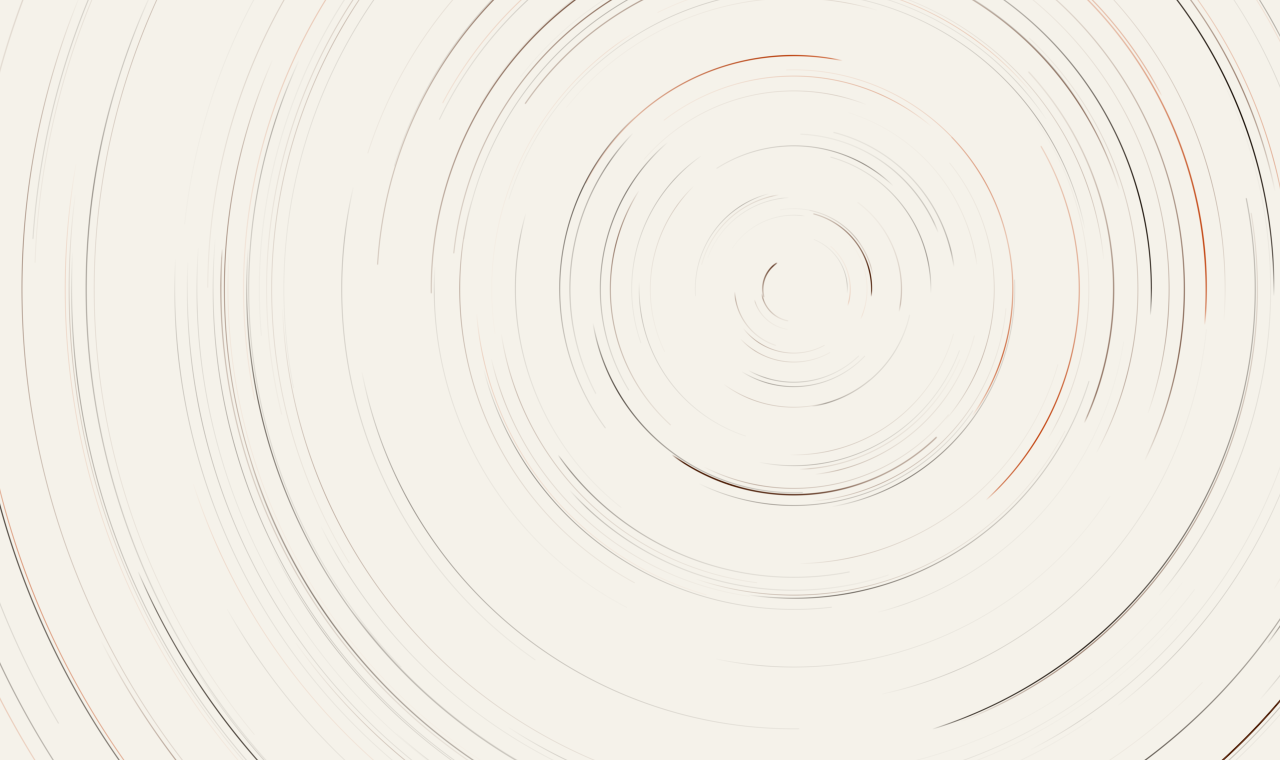
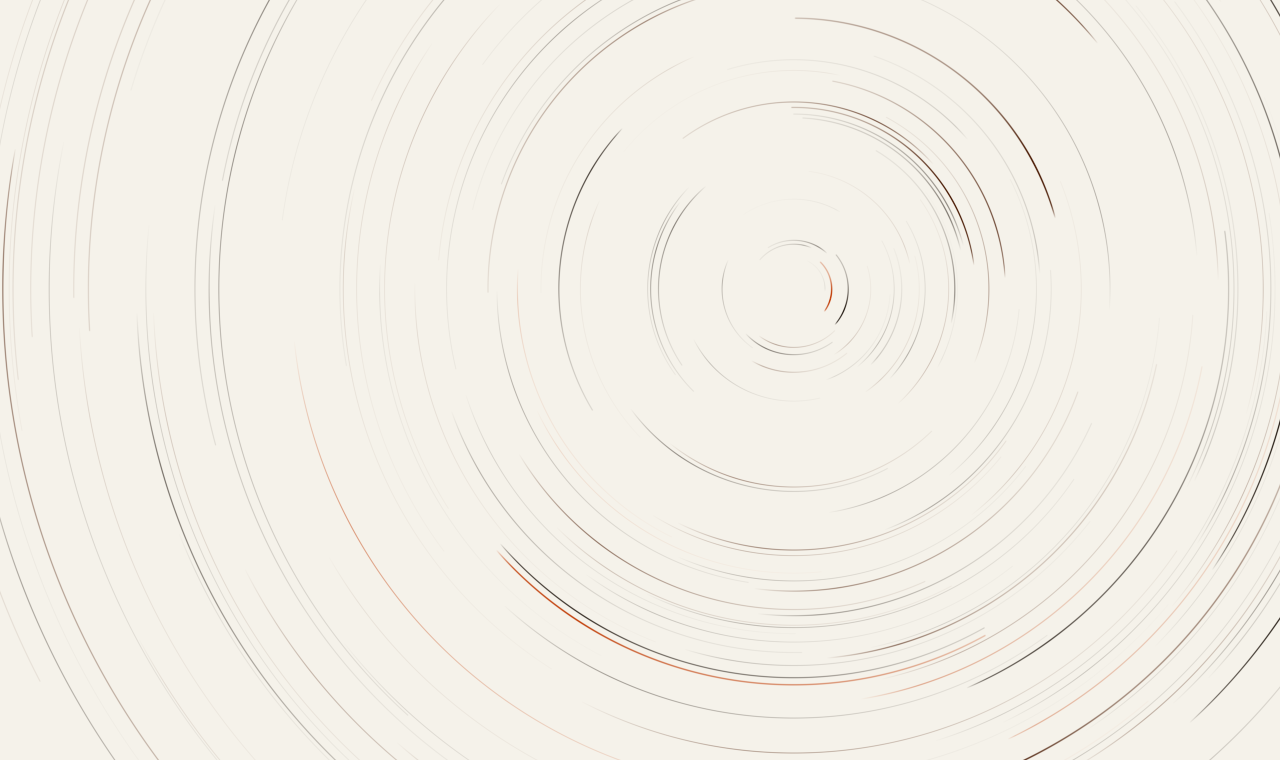
fix(star-trails): 沉积按帧时长归一、底片 DPR 下限 1.8、半径改分层取样
三条"改了参数没见轻"各有其因，都不是口味常量：

1. 帧率耦合：accPass 的衰减乘 step、星角走 dtS，唯独每笔沉积的 alpha 不随帧时长缩放，
   于是刷新率越高越亮越密（120Hz 最深档 α=1 实心 0.76%→1.89%、环间黑隙 27px→20px）。
   乘上 step 后浓淡只由时间决定，60Hz 逐位不变。密度随之 N 220/110→180/100、
   FADE_1 0.0038→0.0052（最深档齿/100px 1.41→0.89、黑隙→44px）。
2. 细线串珠：lw=0.6+z·1.2 有 55% 的星细于 1 CSS px，1× 屏上 dpr=1 时不足一个设备像素，
   抗锯齿把弧切成珠子（覆盖度谷/峰 0.25；抬到"正好 1px"只到 0.27，等于没修）。底片内部分辨率
   加下限 MIN_DPR=1.8、预算 4.6MP→9MP；不加粗线宽（加粗要墨量 ×1.73，等于把密度还回去）。
3. 横向不均：半径独立随机必然结块（最挤/最松 5.66 倍、最小间距 0px、2.6 个空桶），改等距槽
   + 槽内抖动 0.76 + 中段弯折 → 结块比 1.65、空桶 1（天极附近本该空），间距仍 ±76% 摆动。

量法：离线复刻 accPass 的闭式解，与逐帧按点暴力积分对拍（偏差 1.39%，含 60/120/144Hz）+
五条反向覆盖；SETTLE/FEAT 加强经实测对密度几乎无效，已记进 §10 ⑬ 免得再走。文档同步
§3.1 / §9.5 / §10 ⑫⑬ 与手册 §3.4 一条约定；build_readme_art.mjs 从源码读常数，跟着改并重跑配图。

未验：观感未目视；MIN_DPR=1.8 让 1920×1080 底片 2.07MP→6.2MP（约 3× 像素量），
首页满帧那台相机有没有掉帧待实测，退路是 1.4。

diff --git a/src/lib/sky.js b/src/lib/sky.js
@@ -8,7 +8,15 @@
 // 但两个相机若极点不同，导航后同心弧的圆心会跳 → "同一片天"当场穿帮。
 export const POLE_FX = 0.62
 export const POLE_FY = 0.38
-export const MAXPX = 4.6e6 // 底片像素预算（超出则自动降 DPR）
+export const MAXPX = 9e6 // 底片像素预算（超出则自动降 DPR）
+// 底片内部分辨率的下限。一条暗星轨只有 0.94 CSS px 宽（lw = 0.6 + z·1.2，中位数 0.96），
+// dpr=1 的屏上它连一个设备像素都不到 → 抗锯齿把它切成一串珠子：按面积重叠积分量过覆盖度
+// 沿弧的谷/峰比，0.94 设备 px 是 0.25（摆 3~4 倍），1.0 是 0.27（**抬到"正好一个像素"没用**），
+// 1.4 是 0.53，1.87 是 0.79 且无低覆盖采样。所以下限取 1.8。
+// 这不是把线画粗：屏幕上物理线宽仍是 0.94 CSS px（画布会降采样回 CSS 尺寸），多出来的只是
+// 内部栅格的表达力。代价是每帧全屏 destination-out + drawImage 的像素数——1920×1080 从 2.07MP
+// 变 6.2MP。1× 大屏（问题就出在这类屏）才会吃到这份代价，2× 屏与手机本来就在上限附近。
+export const MIN_DPR = 1.8
 
 export const sky = {
   acc: null, // 长曝光底片（离屏累积缓冲）
@@ -49,7 +57,9 @@ export function ensurePlate() {
   const w = innerWidth
   const h = innerHeight
   if (!w || !h) return false
-  const dpr = Math.min(2, window.devicePixelRatio || 1, Math.sqrt(MAXPX / (w * h)))
+  // 想要的分辨率：设备 DPR 与"不串珠"的 1.8 里取大的；再被上限 2 与像素预算夹住
+  const want = Math.max(MIN_DPR, window.devicePixelRatio || 1)
+  const dpr = Math.min(2, want, Math.sqrt(MAXPX / (w * h)))
   if (sky.acc && sky.w === w && sky.h === h && sky.dpr === dpr) return false
   const prev = sky.acc // 旧底片：已感的光要带走，不能因为视口高了十几px 就整张倒掉
   const prevW = sky.w

diff --git a/docs/design.md b/docs/design.md
@@ -42,7 +42,7 @@
 ### 3.1 长曝光星轨（`components/neo/StarTrails.vue`）
 
 - **概念**：首屏 = 架在三脚架上的相机长曝光。恒星周日视运动是刚体旋转（全场一致 ω≈0.042 rad/s），星轨绕偏心天极（全站同一处：视口 62%x / 38%y）累积成同心弧。**但刚体旋转只保证几何正确，不保证好看**：可读的星空靠的是星等分层（多数暗、极少数亮）与弧长错落，见下「星等与随机性」。
-- **渲染管线（Canvas 2D · 累积缓冲）**：ACC 离屏底片按**视口**尺寸分配、全站共享（见下「天与相机」），每帧不清空——① 衰减 pass：`destination-out` 填 `alpha=fade`（尾迹长度 ∝ 1/fade）；② 增量 pass：每星画本帧短弧沉积，**弧长由 `shear`（0.06~0.40rad 随机）主导，而不是 ω·dt（每帧仅 0.0007rad）**——这一条最容易记错：调 ω 改的是天空转动的快慢，改弧长要动 `shear`。`z>0.62` 的亮星（实测占 14.2%）另在拖痕前沿叠一笔 22% 长、0.72 倍线宽、`HEAD_GAIN=2.6` 倍 alpha 的短弧，使亮度自尾向头递增（实测累积比 1.3~1.6 倍）——等亮的长弧在视觉上只是"一根光棒"。主画布每帧 = 底 → `drawImage(ACC, 0, 0, W, H)`（顺带把天区坐标缩放进本机盒子）→ 当帧层（变星/流星，不累积，保持锐利）。像素预算 4.6MP 封顶自动降 DPR，相机跟随底片 DPR。
+- **渲染管线（Canvas 2D · 累积缓冲）**：ACC 离屏底片按**视口**尺寸分配、全站共享（见下「天与相机」），每帧不清空——① 衰减 pass：`destination-out` 填 `alpha=fade`（尾迹长度 ∝ 1/fade）；② 增量 pass：每星画本帧短弧沉积，**弧长由 `shear`（0.06~0.40rad 随机）主导，而不是 ω·dt（每帧仅 0.0007rad）**——这一条最容易记错：调 ω 改的是天空转动的快慢，改弧长要动 `shear`。`z>0.62` 的亮星（实测占 14.2%）另在拖痕前沿叠一笔 22% 长、0.72 倍线宽、`HEAD_GAIN=2.6` 倍 alpha 的短弧，使亮度自尾向头递增（实测累积比 1.3~1.6 倍）——等亮的长弧在视觉上只是"一根光棒"。主画布每帧 = 底 → `drawImage(ACC, 0, 0, W, H)`（顺带把天区坐标缩放进本机盒子）→ 当帧层（变星/流星，不累积，保持锐利）。底片内部分辨率 `dpr = min(2, max(1.8, devicePixelRatio), √(9e6/(w·h)))`——**1.8 是下限**（2026-10-07 加，见「细线串珠」），9MP 是预算封顶，相机跟随底片 DPR。
 - **天与相机（`src/lib/sky.js`）**：底片像素、星群、天极、时钟、取景权放在模块级单例 `sky` 里——**星空是一份，相机是两台**。要点：
   - `ensurePlate()` 只在**视口尺寸或 DPR 变化时**才新建底片；桌面换页时两者都不变，于是同一张底片继续感光。这是"一夜连续曝光"从口号变成实现的唯一一处改动。**但移动端会变**：地址栏收放改 `innerHeight` → `resize` → 走到重开分支，早期版本等于用户第一次滚动就把整夜曝光倒掉（且只在手机上发生，桌面测不出）。现在重开前把旧底片等比 `drawImage` 进新底片——极点按新尺寸重算，弧会漂一两度，**漂移可接受，黑屏不可接受**。
   - `sky.t0` 全站起一次，星角 `s.th` 因此跨路由连续；组件卸载只 `releasePlate(self)` 交还取景权，**不再把 `acc` 置 null**（那正是过去每次导航重铺底片的根因）。
@@ -58,7 +58,7 @@
   | `@hover` | Event | — | 悬停变星下标（`interactive` 下）。**当前无消费方**——首屏的悬停读数条已按反馈移除（§10），`HorizonHero` 不再挂空监听；保留作装置对外接口（内部 `syncHover()` 仍驱动芒的绽放缓动） |
   | `@select` | Event | — | 点击变星，回传对应 post 对象 |
 
-- **交互语义**：滚动 = 时间流速（`flow = 1 + k·2.2`，`fade` 由 0.0086→0.0038，越深尾迹越长天越快）；文章 = 变星（随天刚体旋转、脉动亮度，hover 缓绽锥形衍射十字芒·沿芒长渐隐、点击坠入）；指针 = 引力时间膨胀（180px 半径内转速×2.8、提亮，轨迹局部卷曲，移开恢复）。
+- **交互语义**：滚动 = 时间流速（`flow = 1 + k·2.2`，`fade` 由 0.0086→0.0052，越深尾迹越长天越快）；文章 = 变星（随天刚体旋转、脉动亮度，hover 缓绽锥形衍射十字芒·沿芒长渐隐、点击坠入）；指针 = 引力时间膨胀（180px 半径内转速×2.8、提亮，轨迹局部卷曲，移开恢复）。
 - **主题**：深空 = 冷白/暖白/琥珀三档色温（`lighter` 发光）；纸面 = 天文干版底片（墨/sepia 轨迹 + 朱砂点睛，`source-over`，fade×1.4 尾迹更干净）。**换主题才"换一张底片"**（防串色）：`readColors()` 拿 `data-theme` 与 `sky.theme` 比对，相同就直接返回——两台相机各挂一个 MutationObserver，一次切换会进来两趟，靠这个比较幂等。**挂载不重铺**。
 - **部署**：首页由 `HorizonHero` 以 `interactive` 挂载；次级页由 `App.vue` 以非交互模式挂载为活背景；两者看同一张底片（§3.1「天与相机」）。`reduced-motion` = 一次性快进 380 步生成静态底片，不启动 rAF；由 `ensureStaticPlate()` 按 `sky.plateBuilt` 保证**每张底片只冲一次**，换页与第二台相机都不重冲。
 - **次级页限帧（1.2.0）**：非交互模式目标帧率 30fps（`SUB_FPS`），不足一帧间隔时 rAF 回调直接返回、不绘制。`update()` 用的是真实 `dt`（≈33ms），故星轨转速与满帧完全一致，只是全屏 `destination-out` + `drawImage` 的绘制量减半。首页交互层不受影响（满帧）。
@@ -71,9 +71,15 @@
 - **防饱和尾部渐隐（1.1.0）**：星轨即将转满前 20% 平滑暗化（`SETTLE_START=0.8`、`SETTLE_DEPTH=0.55`），另随机 1-2 根做柔和独立渐隐；每颗星带随机尾迹起点偏移（`shear`），使弧段截端错落、圆环连续无对齐断口；`FADE_0=0.008 / FADE_1=0.0032` 拉长尾迹，让相邻弧段衔接成连续同心圆环。
   - **2026-09-17「久了过饱和、要更透气」回收**：`SETTLE_DEPTH → 0.72`、`FADE_0 → 0.0104`、`FADE_1 → 0.0044`、`DEP → 0.0072`（稳态亮度 ≈ DEP ÷ fade，两头一起动才不会既变淡又变短）。
   - **2026-09-18 第二轮（`SETTLE_DEPTH → 0.6`、`FADE_0 → 0.0086`、`FADE_1 → 0.0038`、`DEP → 0.0084`）**：上一档收得太狠，用户改口"不明显、不好看"。现在 `DEP ÷ FADE_0 = 0.98`，**仍低于**当初被投诉过饱和的 1.06——因为这一轮补的是**对比**而不是整体提亮（见下条）。独立尾部渐隐同时加密到 **1-3 根 / 间隔 5.2~11s**（原 1-2 根 / 9~19s）：固定抽一两根久了会听出节拍。上面两组都是历史值，别照抄，以 `StarTrails.vue` 顶部常量块为准。
+- **2026-10-07 第三轮：先修帧率耦合，再动数量与最深尾迹**。这次量的不是亮度而是**密度**：把 `accPass` 的合成数学离线复刻成按点积分（仿真器与逐帧暴力对拍，最大偏差 1.39%，含 60/120/144Hz 三档；尾迹闭式解与仓库里 `scripts/build_readme_art.mjs` 用的是同一条），再在 1920×1080 / 1440×900 / 390×844 三块屏 × 页顶/最深 × 60/120Hz 上读"沿半径每 100px 有几条亮线、亮线之间还剩多少黑"。
+  - **根因不在口味常量**：`accPass` 里衰减乘了 `step`、星角走 `dtS`，**唯独每笔沉积的 alpha 不随帧时长缩放**——刷新率越高，同一点每秒被叠的次数越多，底片越亮越密。120Hz 上最深档：齿/100px 1.41→1.90、环间黑隙 27px→20px、顶到 α=1 的实心像素 0.76%→1.89%。**这就是前三轮"收了参数没见轻"的原因**：60Hz 上量出来的稳态值在高刷屏上不成立。修法是 `accPass(…, dep, step)` 把 `step` 也乘进沉积（星轨与变星两处）；60Hz 下 `step=1`，观感逐位不变，此后每个口味常量在任何刷新率上都落得准。
+  - **归一之后才谈数量**：`N_BIG 220→180`、`N_SMALL 110→100`、`FADE_1 0.0038→0.0052`。1920×1080 最深档 齿/100px 1.41→0.89、黑隙 27px→44px、α=1 实心 0.76%→0.44%、可见亮线覆盖 7.6%→4.9%；页顶档几乎不动（黑隙 82→118px、覆盖 2.2%→1.9%）。笔记本 1440×900 在 120Hz 上是 2.49→1.19 的量级。
+  - **"尾部消失"这一路实测否定**：`SETTLE_START→0.7`（`D` 保持 0.6）读数不变（齿/100px 1.41→1.40），`SETTLE .5/.75` 也只到 1.29——`SETTLE` 只在天球固定的那 20% 角区削沉积，`FEAT` 同时只挑 1–3 根（上百根里），两者都不是密度的闸门。尾部方向真正有效的是**衰减地板 `FADE_1`**（本轮就是抬它）和截短 `shear`（×0.7 能把 α=1 实心压到 0.38%，但会削掉 09-18 定下的"弧长错落是随机感主力"，本轮没动，留着当回退口）。
+  - **细线串珠（同一天的第二批反馈："大屏上部分线条不连贯"）**：线宽 `lw = 0.6 + z·1.2` 的分布是 p10 0.80 / p50 0.96 / p90 1.41 CSS px——**55% 的星细于 1 CSS px**。旧写法 `dpr = min(2, devicePixelRatio, √(预算))` 在 1× 缩放的大屏上给出 dpr=1，于是中位星轨只有 0.94 个设备像素宽。按面积重叠积分量覆盖度沿弧的**谷/峰比**：0.94 设备 px 是 0.25（摆 3~4 倍 → 一串珠子带缝），**抬到"正好 1 px"是 0.27，等于没修**，1.40 是 0.53，1.87 是 0.79 且无低覆盖采样。所以底片内部分辨率加了 **1.8 的下限**（`sky.js` 的 `MIN_DPR`），预算同步从 4.6MP 抬到 9MP 以免被夹回去。这不是把线画粗——屏幕上物理线宽仍是 0.94 CSS px（画布降采样回 CSS 尺寸），多花的只是内部栅格：1920×1080 底片 2.07MP→6.2MP，每帧全屏 `destination-out` + `drawImage` 约 3× 像素量，**且只有 1× 屏才吃到这份代价**（2× 屏与手机本来就在上限附近）。被排除的另一条路是把线宽下限设成 `1.8/dpr`：墨量 ×1.73、98% 的星被加粗，等于把刚压下去的密度还回去，还会抹掉"亮星比暗星粗"那层尺寸差。
+  - **半径分层（"横向分布过于不均匀，随机性之上要留美学感"）**：独立随机取样下，180 条环自由落体必然结块——12 次取均值实测"最挤 10 条的跨度 ÷ 最松 10 条的跨度"= **5.66**，最小间距 **0.0px**（两条环几乎重合 → 一根粗线旁边一大片空），50 个半径桶里 **2.6 个全空**。改为**等距槽 + 槽内抖动 0.76 + 单调弯折**（`pickRn(i,n)`，`MID_BIAS=0.2` 继承旧环带"中段略密"的倾向）：结块比 **1.65**、最小间距 1.5px（n=100 时 3.2px）、空桶 1 个（天极附近，本来就该空），而相邻间距仍有 ±76% 的摆动，不是尺子画的。密度指标顺带更好一点（最深档黑隙 41→44px），因为结块消失后"挤成一片"的局部也没有了。**这条取代了 09-18 那版的"3 段重叠环带 + 三成完全随机"**——那一版是为了消灭更早的"4 段留 3 道空隙 = 太规整"，结果矫枉过正成了不均匀；两版都是同一个矛盾的两端，分层抖动是它的中点。
 - **星等与随机性（2026-09-18 重做）**：量过像素才看清"不好看"是什么——旧参数跑 400 帧后底片上点亮像素的 `p50 / p90 / 最亮 = 0.165 / 0.169 / 0.169`，**层次比 1.02**，即所有亮部一样亮，一片没有层次的雾。三处改动把它拉开：
   - **星等分布**：`z` 由 `0.22 + r^1.7·0.78`（中位数 0.6）改为 `0.16 + r^2.4·0.62`，再让 7% 的星整体 `×2.1`。累积稳态 alpha ≈ `al/(al+fade)`，实测从暗到亮 **0.196 → 0.247 → 0.443 → 0.753**（p50/p90/最亮）。线宽同步从 `0.7+z·0.9` 放宽到 `0.6+z·1.2`，让亮星在尺寸上也压过暗星。
-  - **半径取样**：环带原是 4 段互不重叠、中间留 3 道空隙，直方图实测在半径 **32~36%、56~58%、80~84%** 三处共 5 个全空桶——那几道空环正是"人为同心环/太规整"的来源。改为 3 段**互相重叠**的宽带（只留"中段偏密"的倾向）+ **30% 的星半径完全随机**，现在只剩天极附近一个空桶（`r<2%`，本来就该空）。
+  - **半径取样（本条已被 2026-10-07 的分层抖动取代，见上「半径分层」）**：环带原是 4 段互不重叠、中间留 3 道空隙，直方图实测在半径 **32~36%、56~58%、80~84%** 三处共 5 个全空桶——那几道空环正是"人为同心环/太规整"的来源。改为 3 段**互相重叠**的宽带（只留"中段偏密"的倾向）+ **30% 的星半径完全随机**，现在只剩天极附近一个空桶（`r<2%`，本来就该空）。
   - **弧长与闪烁**：`shear` 从 `0.04+r·0.22` 放宽到 `0.06+r^1.25·0.34`（实测 3.4°/11.6°/22.9° 的 min/中位/max），弧长差异大到一眼读得出"每根不一样长"；闪烁幅度改随星等放大（`ta = 0.08+0.13·min(1,z)`），旧的是全场固定 0.14。
   复核方式同 §10 那条教训：**页面里复刻 `accPass` 合成数学、同步跑固定帧数、`getImageData` 量底片**（rAF 冻结也能跑）。深空与纸面两套各跑到 2400 帧，`p50` 全程钉在 0.247 / 0.165、最亮在 0.68~0.83 之间不爬向 1，即覆盖面积翻 3.6 倍的过程中**没有饱和回归**。
 
@@ -515,7 +521,7 @@ p.sr-only[aria-live] → 路由播报，内容取 route.meta.t
 - 动画只动 `opacity` / `transform`：**不要新增大面积的 `filter`**（唯一例外是 `fall` 转场，理由与改法见 §3.2 / §10）；不要给常驻悬在动画画布之上的元素加 `backdrop-filter`（理由见 §5.6）。
 - `resize` 一律经 `src/lib/debounce.js` 去抖；需要"随滚动变化"就读 `var(--shift, 0)`，**不要为深度自建第二个真相源、更不要每帧读 `scrollHeight`**（强制同步布局）。§9.4 记明了两个合法的 `scroll` 监听例外。
 - 指针跟随类效果用 `transform` 位移（配 `will-change`），不要改会触发重绘的属性（见 §5.5）。**由 `--shift` 驱动"长短/多少"的元素同理**：写 `transform: scaleX(var(--shift))` + `transform-origin`，不要写 `width: calc(var(--shift)*100%)`——`--shift` 每个滚动帧都在变，改宽度等于每帧一次布局（文章页顶部进度线已按此改法收敛）。
-- Canvas 尊重 `devicePixelRatio` 上限与像素预算（`StarTrails` 已内置 4.6MP 封顶 + 次级页 30fps 限帧），另有**两道停帧闸门**（标签页隐藏、首页相机划出视口 `IntersectionObserver`）与**一道只关沉积的取景权闸门**——见 §3.1，别把取景权写成停帧条件，那会造成导航瞬间的冻帧。
+- Canvas 尊重 `devicePixelRatio` 上限与像素预算（`StarTrails` 已内置 9MP 封顶 + 底片 DPR 下限 1.8 + 次级页 30fps 限帧；DPR 下限是为消细线串珠，代价只在 1× 缩放的屏上），另有**两道停帧闸门**（标签页隐藏、首页相机划出视口 `IntersectionObserver`）与**一道只关沉积的取景权闸门**——见 §3.1，别把取景权写成停帧条件，那会造成导航瞬间的冻帧。
 
 **无障碍**
 
@@ -606,7 +612,7 @@ p.sr-only[aria-live] → 路由播报，内容取 route.meta.t
 - **生硬的元凶是我自己二阶段加的快门层，而且它间接推翻了 1.2.0 的决定**。1.2.0 那次是**评估过之后保留** `fall` 的整页模糊（"叠影模糊正是坍缩的手感来源"），本轮没有任何一条改动碰过 `fall` 的关键帧——但二阶段新加的 `.neo-shutter` 是两片**实心** `--ink-0` 条带，而 `--ink-0` 就是页面底色（neo 皮肤深空 `#020204` / 纸面 `#f5f2ea`，实测计算值确认）。于是换页时有一整条不透明的背景色带横扫过屏，把星轨和正在化开的模糊一起糊掉：**保留模糊的决定在形式上还写着，在观感上已经被抹掉了**。教训：往转场链路上叠新图层时，"我没改动原动画"不构成免责——一个盖在上面的实色层就足以让下面所有的缓动失去意义。改法见 §3.2（羽化 + 整层 6 成不透明 + 峰值对齐 fall 中段）。
 - **上一轮的"更透气"收过了头**。`DEP ÷ FADE_0` 从 1.1.0 的 1.06 一步收到 0.69，用户紧接着就要"更明显"。这次没有回到 1.06，而是落在 0.98 并把力气放在**对比**上。之所以敢这么定，是因为量出了"不好看"的数字化特征：旧参数跑 400 帧后，底片上点亮像素的 `p50 / p90 / 最亮 = 0.165 / 0.169 / 0.169`，**层次比 1.02**——所有亮部一样亮，是一片雾而不是满天星。新参数同一测法为 `0.196 / 0.247 / 0.753`。环带空洞同理，是直方图上 5 个**完全为空**的 2% 半径桶（32~36% / 56~58% / 80~84%）而非主观判断。详细取值与理由见 §3.1「星等与随机性」。
 - **方法上真正兑现了 ⑦ 那条教训**。⑦ 记下"画布类改动没有量过像素输出就不算已验证"，本轮照做：在页面里**复刻 `accPass` 的合成数学**（衰减 pass + 每星短弧 + 头部亮段），**同步**跑固定帧数后 `getImageData` 量底片——同步循环绕开了内置浏览器 rAF 冻结，这一条路子是通的。深空/纸面两套各跑到 2400 帧（≈40s，天空转过约 96°），`p50` 全程钉在 0.247 / 0.165、峰值在 0.68~0.83 之间不爬向 1，说明覆盖面积翻 3.6 倍的过程中没有饱和回归（**注意**：全底片均值一直在涨，那是弧还在往未画过的角度铺，不是变亮；判饱和要看 p50 与峰值）。CSS 侧走 CSSOM + `getComputedStyle(el,'::before')`，确认两层渐变与 `color-mix` 都求出了真色、两片帘幕同时长同曲线、`neo-blind` 有 46% 峰值——因为快门失效的方式是**静默不可见**，构建通过证明不了它活着。
-- **仍未验证的部分（不要误读成已验收）**：整轮**没有任何一项经过目视**。上面量的是"底片上有多少alpha、规则在不在"，读不出好不好看。具体待用户确认的三件事：⑴ 切换是否真的变柔、快门还在不在"能察觉但不抢眼"的位置（若仍嫌抢眼，**整层可单独删**：`App.vue` 的 `shot` + `neo.css` 的 §8.5 与 `neo.css` §11，三处，与 `fall` 完全解耦）；⑵ 星轨的亮度/长度是否到位，纸面主题（fade×1.4、dep×1.5）比深空更冲，需单独看一眼；⑶ 亮星头部亮段在小屏（110 星）上够不够。所有口味值集中在 `StarTrails.vue` 顶部常量块。
+- **仍未验证的部分（不要误读成已验收）**：整轮**没有任何一项经过目视**。上面量的是"底片上有多少alpha、规则在不在"，读不出好不好看。具体待用户确认的三件事：⑴ 切换是否真的变柔、快门还在不在"能察觉但不抢眼"的位置（若仍嫌抢眼，**整层可单独删**：`App.vue` 的 `shot` + `neo.css` 的 §8.5 与 `neo.css` §11，三处，与 `fall` 完全解耦）；⑵ 星轨的亮度/长度是否到位，纸面主题（fade×1.4、dep×1.5）比深空更冲，需单独看一眼；⑶ 亮星头部亮段在小屏（100 星）上够不够。所有口味值集中在 `StarTrails.vue` 顶部常量块。
 
 ⑨ **2026-09-18 P1：暗带契约 + 卡片重定标**。起因是用户提出「整体显示风格没有做很好的统一，存在阅读困难、效果不佳、体验割裂，要一套整体的解决方案」。
 - **普查先推翻了我的预设**。逐文件量下来，**令牌化程度其实已经很高**——15 个视图/组件（12 视图 + 3 个壳层组件）里，非 `clamp()` 的 `font-size` 全部走 `--fs-*`、间距全部走 `--space-*`、颜色零裸值；只有 6 处纯字面量的 `clamp()` 展示字号游离在刻度之外（另 2 处 `clamp()` 是用 `--fs-*` 搭的，属合规）——令牌刻度里本就没有"流体字号"这一档。所以病灶**不在数值层**（1.3.0 那次收敛是真做到了的），而在**结构层**，三条：⑴ 可读性底板没有契约（11 个次级页只有文章页做过）；⑵ 行长没有契约（`--measure` 只有 3 页在用，列表页正文铺满 1056px ≈ 75 字/行，是文章栏的 2.2 倍）；⑶ 骨架二套（`.neo-shell` 1120/`--space-5` 与 `.page` 1120/`--space-4`，登录/注册/后台走后者）。**本轮只落地 ⑴**，⑵⑶ 是 P2/P3。
@@ -642,3 +648,17 @@ p.sr-only[aria-live] → 路由播报，内容取 route.meta.t
   `src/assets/plate/` 目录、两个 mock 脚本全部移出仓库。可回退的副本停在 `vibe_images/plate-park-20260926/`
   （gitignore，含两份 WebP 与 `plate-layer.patch`）。若日后重做这个方向，先量的仍是同一条：文字底下那部分底图的
   合成底，带内 `text-1` 必须 ≥4.5:1，且按峰值 alpha 而不是中位数算。
+
+⑫ **2026-10-07 第三轮反馈："主页线条过于密集没有改善"**。用户给的方向是「先翻 git 找有没有现成解法，否则从数量控制 / 尾部消失下手」。
+- **git 里的账**：`N_BIG / N_SMALL`（220/110）自 `c30e766` 换成星轨装置以来一次没动过；后面三轮（`2235389`、`809e119`、`09c11c4`）全在动 alpha 侧（`DEP`/`FADE`/`SETTLE`）与对比侧（`z` 分布、`shear`、环带、`HEAD_GAIN`）。没有 stash、没有旁支分支可回收。也就是说"数量"这一路从来没试过，而"改了三遍还嫌密"这件事本身没有解释。
+- **解释是帧率，不是口味**：`accPass` 的衰减乘 `step`、星角乘 `dtS`，唯独**沉积 alpha 不乘时间**。于是刷新率越高的屏，同一点每秒被叠的次数越多，未饱和处的稳态亮度按帧数正比上涨——120Hz 的最深档实测 中位亮度 0.216→0.283、顶到 α=1 的实心像素 0.72%→1.95%、环间黑隙 27px→20px、可见亮线覆盖 7.8%→10.2%。**在 120Hz 面板上调 60Hz 量出来的口味常量，等于一直在调一个不生效的旋钮**，这才是"改了没改善"。修法一处（`accPass(…, dep, step)`，星轨与变星两行），60Hz 逐位不变。这一条是**缺陷修正**，不计入口味取舍。
+- **数量与尾迹按实测落地**：`220→180`、`110→100`、`FADE_1 0.0038→0.0052`。用户点的"尾部消失"方向经实测**不是**密度闸门：`SETTLE` 只削天球固定 20% 角区的沉积、`FEAT` 同时只管 1–3 根，读数几乎不动；真正把最深档尾迹长度按住的是衰减地板 `FADE_1`，于是本轮抬的就是它。`shear` 保留不动，它是 §3.1「星等与随机性」记在案的随机感主力，也是下一档回退口（×0.7 可再压掉一半 α=1 实心）。
+- **本轮的量法换了**：不再在页面里驱动真画布，而是纯 Node 复刻合成数学——**离线就不受内置浏览器 rAF 冻结影响**，且能一次跑 3 块屏 × 2 档滚动 × 2 个刷新率 × 5 个 seed 的对照。闭式解与逐帧按点暴力积分对拍最大偏差 1.39%，另有五条反向覆盖（星数↑密度必↑、fade↓必更密、`shear`↓必更疏、关 `SETTLE` 必更密、归一后必须与帧率无关）。仿真器留在 `docs/assets/mock/measure/plate-sim.mjs`（该目录已 gitignore，属当轮试验产物；要长期当对拍机就挪进 `scripts/`）。
+- **仍未目视**：本轮所有数字都是"底片上有多少可见亮线、线间剩多少黑"，读不出好不好看。待用户确认两件事：⑴ 归一之后主页是否还嫌密（若嫌，先动 `shear×0.7~0.8` 再动 `N`，别动 `SETTLE`）；⑵ 页顶档 `N=180` 够不够满天（覆盖从 2.4% 掉到 2.0%）。另需他自己报一次面板刷新率，用来确认"以前调不动"确实是帧率而非别处。
+
+
+⑬ **同日第二批反馈：细线串珠 + 横向分布不均**。用户先看图就点了两处不准的地方，两处都不是口味问题，且都是**上一轮那套仿真看不见的维度**——密度指标只数"有多少条亮线"，看不见"一条线断成一串珠子"，也看不见"亮线挤在一段半径里"。所以量具要跟着问题换：这一批改用**按面积重叠的覆盖度积分**（沿弧的谷/峰比）与**半径直方图的结块比/空桶数**。
+- **两条被排除的路，记下来免得有人再走**：⑴ 把线宽下限设成 `1.8/dpr`（加粗消串珠）——墨量 ×1.73、98% 的星被加粗，直接把 ⑫ 刚压下去的密度还回去，还抹掉"亮星比暗星粗"的尺寸层次；⑵ 只把线宽抬到"正好一个设备像素"——实测谷/峰 0.27，与 0.94px 的 0.25 没有区别，**"至少 1px"是个想当然的门槛，真正的位置在 1.8 设备 px 附近**。
+- **B 方案（提内部分辨率）留了一个没量过的尾巴**：`MIN_DPR=1.8` 让 1920×1080 的底片从 2.07MP 变 6.2MP，每帧全屏 `destination-out` + `drawImage` 约 3× 像素量。§3.1 的稳态数学证明不了帧率，**必须实测**：首页满帧那台相机在 1× 大屏上有没有掉到 60fps 以下（`performance` 里数 rAF 帧即可）。若掉帧，退路是把 `MIN_DPR` 降到 1.4（谷/峰 0.53，串珠从"明显"到"轻微"）而不是回到 1。
+- **分层抖动是"规整 vs 随机"这条矛盾的中点，不是终点**。09-18 之前是"4 段留空隙"（太规整，被否），09-18 之后是"3 段重叠 + 三成纯随机"（结块比 5.66、最小间距 0px，被否为不均匀），现在是"等距槽 + 槽内 0.76 抖动"（结块比 1.65，间距仍 ±76% 摆动）。若日后又嫌"太均匀"，往 `SLOT_JIT→0.95` 方向加抖动，别回到纯随机。
+

diff --git a/docs/manual.md b/docs/manual.md
@@ -254,6 +254,7 @@ export const site = {
 - **动画只动 `opacity` / `transform`**。不要**新增**整页或大面积的 `filter: blur()`——那会每帧重新栅格化整棵子树。唯一的例外是 `fall` 转场（换页时的下坠模糊），它是刻意保留的手感，新组件请勿照抄。
 - **不要给常驻悬在画布之上的元素加 `backdrop-filter`**。它会让浏览器在星轨每动一帧时重算背后模糊；全站只保留抽屉一处（模态、瞬时）。需要“玻璃感”时用 94% 不透明实底替代。
 - **`resize` 一律经 `src/lib/debounce.js` 去抖（150ms）**，因为大多数处理要重建画布或重新测量布局。
+- **往累积缓冲沉积的那笔 alpha 必须乘帧时长比例**（`StarTrails.vue` 的 `accPass(…, dep, step)`）。底片的浓淡只能由时间决定：漏乘会让高刷新率屏整体变亮变密——120Hz 最深档实测顶到 α=1 的实心像素 0.72%→1.95%、环与环之间的黑隙 27px→20px，而这种差别在 60Hz 的开发机上看不见，会让人误以为"口味常量改了没效"。推导与实测见 `docs/design.md` §3.1 与 `docs/design.md` §10 ⑫。
 - **不要各自写滚动监听**。滚动深度统一由 `App.vue` 写入 `--shift`（0..1），需要就 `var(--shift, 0)`；`scrollHeight` 会强制同步布局，绝不能每帧读。
 - **焦点与播报**：新增模态/浮层请用 `src/lib/focus.js` 的 `trapFocus()` 锁住 Tab 并在关闭时归还焦点；`#main` 带 `tabindex="-1"` 供「跳到内容」使用；路由切换由 `App.vue` 的 `aria-live` 区域播报 `route.meta.t`——新页面记得在 `src/router/index.js` 写上 `meta.t`。
 - **触控目标 ≥44px**：直接复用 `.neo-btn` / `.neo-chip` 就会自动满足（`neo.css` 的 `@media (pointer: coarse)` 已统一处理）；只有自己写控件时才需补 `min-height: 44px`。
